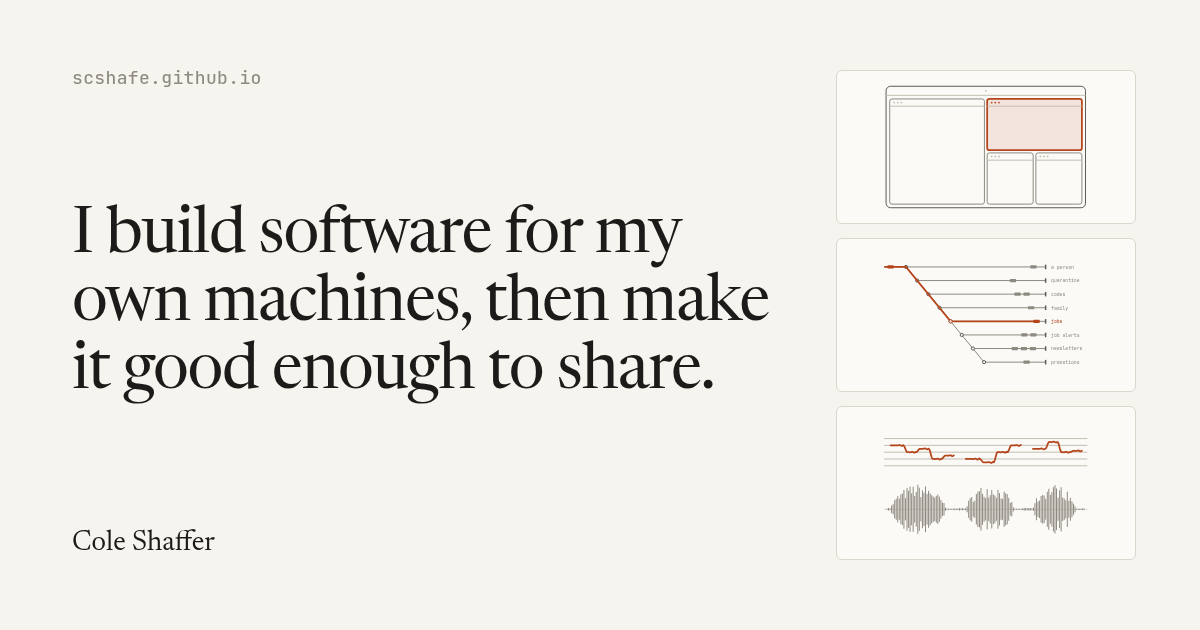
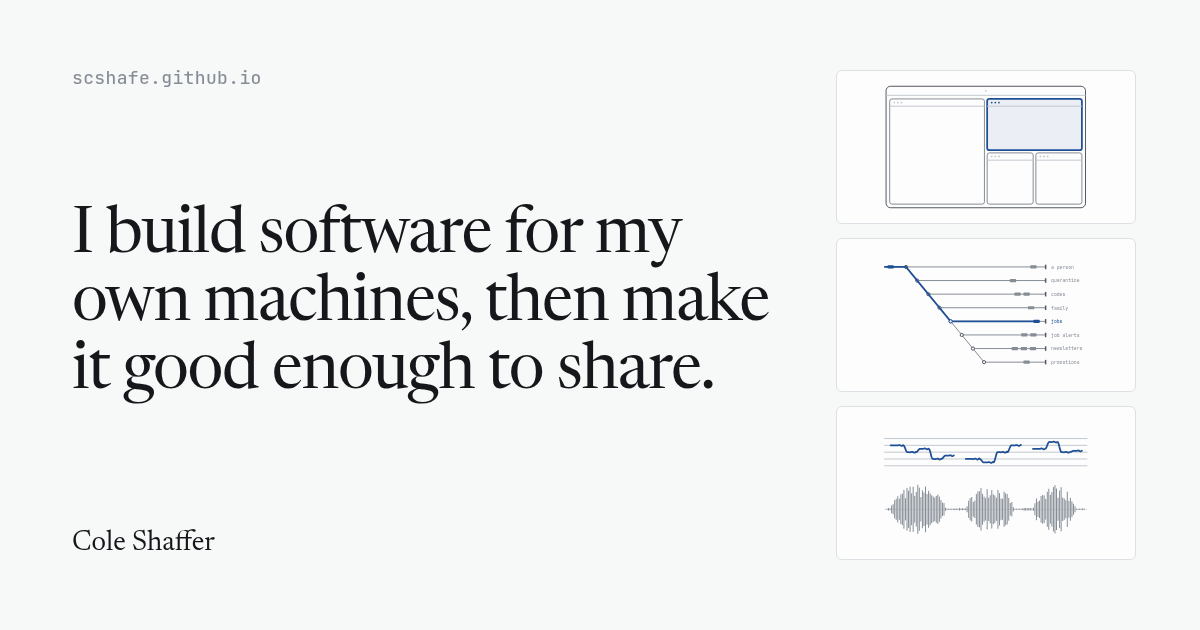
Cool paper and a cyanotype blue; keep the preview card's source
The first palette (warm cream, terracotta accent, book serif) is the stock
look of generated sites. Cool paper and a blueprint blue suit drawings that
are diagrams. scripts/og-card.astro is the source of public/og.png.

Claude-Session: https://claude.ai/code/session_013xXaJyPD4VXcJ7srvtr5Dg

diff --git a/src/styles/global.css b/src/styles/global.css
@@ -7,16 +7,17 @@
 @import "@fontsource-variable/jetbrains-mono/wght.css";
 
 :root {
-  --paper: #f6f4ef;
-  --paper-raised: #fbfaf7;
-  --ink: #1c1b19;
-  --ink-2: #5f5b53;
-  --ink-3: #8f8a80;
-  --rule: #dcd7cc;
-  --rule-strong: #c4beb1;
-  --accent: #b5441b;
-  --accent-soft: #b5441b1f;
-  --code-bg: #ece8df;
+  /* Cool paper and a cyanotype blue: the drawings are blueprints. */
+  --paper: #f7f8f8;
+  --paper-raised: #fdfdfd;
+  --ink: #15171a;
+  --ink-2: #545a62;
+  --ink-3: #868d96;
+  --rule: #dde1e5;
+  --rule-strong: #c3c9d0;
+  --accent: #1f4f94;
+  --accent-soft: #1f4f9414;
+  --code-bg: #ebeef1;
 
   --serif: "Newsreader Variable", "Iowan Old Style", "Palatino Linotype", Georgia, serif;
   --mono: "JetBrains Mono Variable", ui-monospace, "SF Mono", Menlo, Consolas, monospace;
@@ -35,16 +36,16 @@
 
 @media (prefers-color-scheme: dark) {
   :root {
-    --paper: #151513;
-    --paper-raised: #1b1b18;
-    --ink: #e9e6df;
-    --ink-2: #a8a399;
-    --ink-3: #7a766d;
-    --rule: #2e2c28;
-    --rule-strong: #45423c;
-    --accent: #e57b52;
-    --accent-soft: #e57b5224;
-    --code-bg: #22211e;
+    --paper: #101214;
+    --paper-raised: #16191c;
+    --ink: #e5e8eb;
+    --ink-2: #a1a8b0;
+    --ink-3: #6f7781;
+    --rule: #262a2f;
+    --rule-strong: #3a4047;
+    --accent: #84aee8;
+    --accent-soft: #84aee81f;
+    --code-bg: #1d2125;
     color-scheme: dark;
   }
 }

diff --git a/docs/DESIGN.md b/docs/DESIGN.md
@@ -37,13 +37,17 @@ so they follow dark mode.
 
 | Token | Light | Dark | Use |
 | --- | --- | --- | --- |
-| `--paper` | `#f6f4ef` | `#151513` | page |
-| `--paper-raised` | `#fbfaf7` | `#1b1b18` | figure panels |
-| `--ink` | `#1c1b19` | `#e9e6df` | text |
-| `--ink-2` | `#5f5b53` | `#a8a399` | secondary text |
-| `--ink-3` | `#8f8a80` | `#7a766d` | labels, drawing structure |
-| `--rule` | `#dcd7cc` | `#2e2c28` | hairlines |
-| `--accent` | `#b5441b` | `#e57b52` | the one live element; link hover |
+| `--paper` | `#f7f8f8` | `#101214` | page |
+| `--paper-raised` | `#fdfdfd` | `#16191c` | figure panels |
+| `--ink` | `#15171a` | `#e5e8eb` | text |
+| `--ink-2` | `#545a62` | `#a1a8b0` | secondary text |
+| `--ink-3` | `#868d96` | `#6f7781` | labels, drawing structure |
+| `--rule` | `#dde1e5` | `#262a2f` | hairlines |
+| `--accent` | `#1f4f94` | `#84aee8` | the one live element; link hover |
+
+The palette is cool paper and a cyanotype blue, the colour of a blueprint, because
+the drawings are diagrams. A first pass used warm cream with a terracotta accent and
+was dropped: with a book serif it is the stock look of generated sites.
 
 - **Type:** Newsreader (variable, optical sizes) for everything you read; JetBrains
   Mono for small labels, the spec rail, code and keys. Headings are regular weight,
@@ -64,7 +68,6 @@ so they follow dark mode.
 
 ## The link-preview image
 
-`public/og.png` (1200 x 630) is the home sentence beside the three drawings. It was
-rendered from a temporary Astro page that composed `Figure` components with the site
-CSS, screenshotted with Playwright at 1200 x 630, then removed. Re-render it the same
-way if the sentence or the drawings change.
+`public/og.png` (1200 x 630) is the home sentence beside the three drawings, drawn
+with the site's own CSS and figures by `scripts/og-card.astro`. The steps to
+re-render it are at the top of that file.

diff --git a/AGENTS.md b/AGENTS.md
@@ -23,7 +23,7 @@ looks.
 - `scripts/check-site.mjs`: the post-build check (links, metadata, no other origins,
   no private details).
 - `public/og.png`: the link-preview image (1200 x 630), rendered from the site's own
-  type and drawings; see `docs/DESIGN.md` to regenerate it.
+  type and drawings by `scripts/og-card.astro` (the steps are in that file).
 
 ## Rules
 
